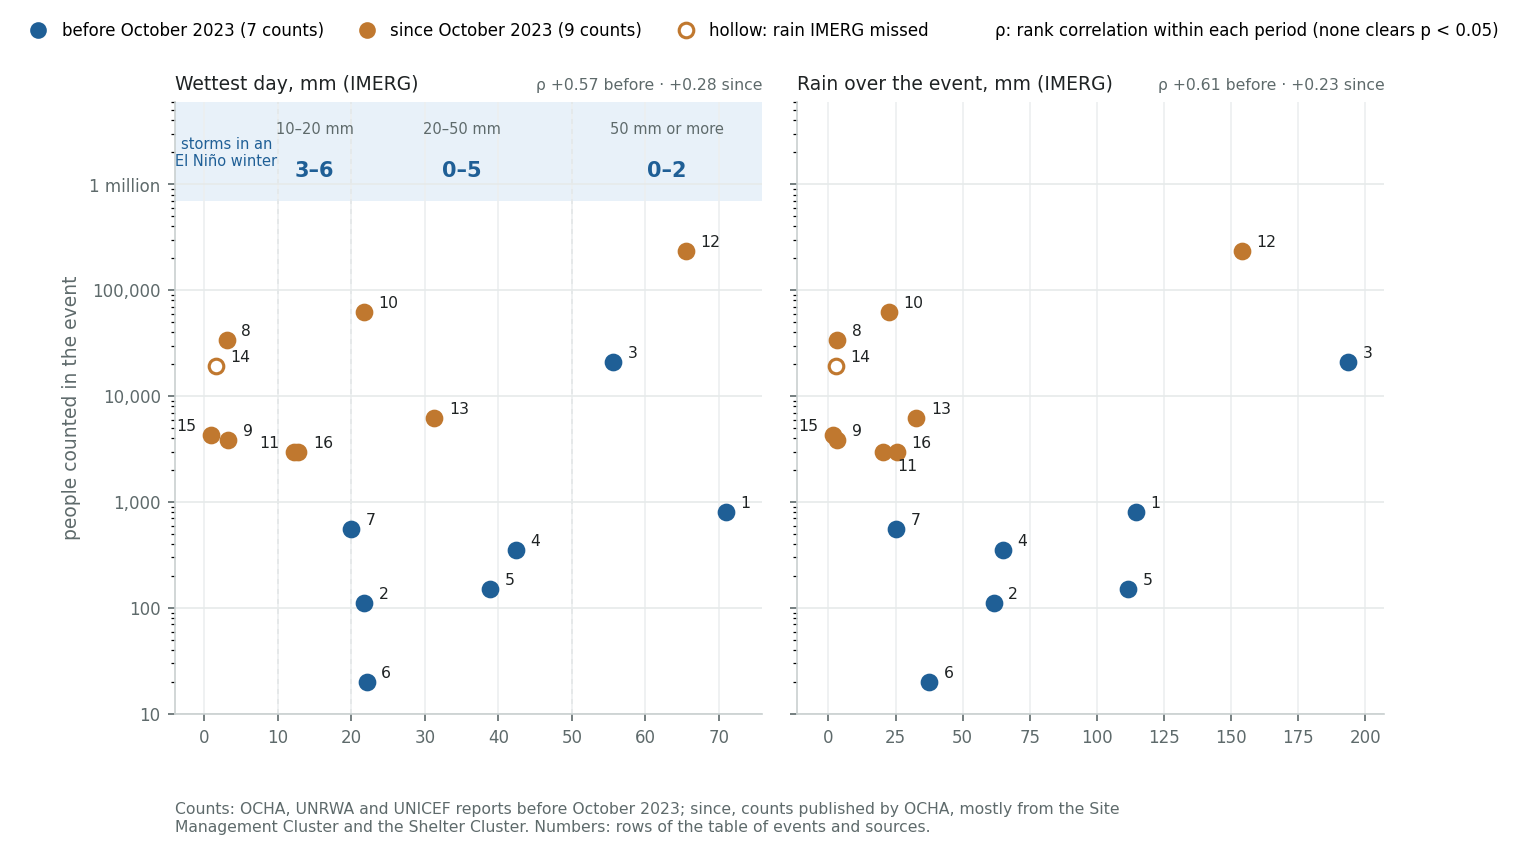
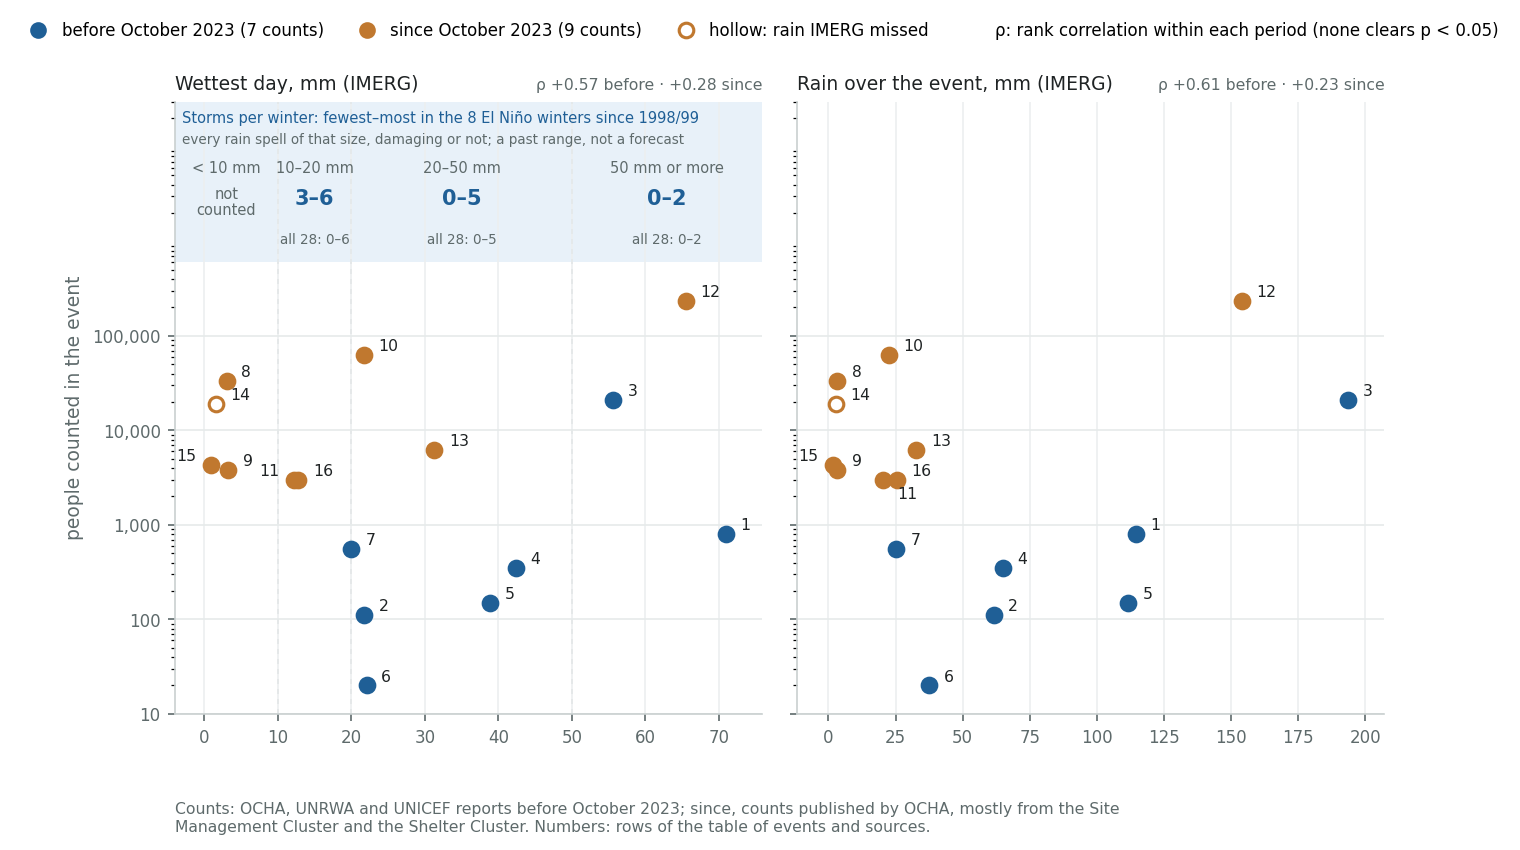
Per-event scatter: the storm-count strip explains itself
The strip says in the figure that it is the fewest and most storms per winter in the eight
El Niño winters of the record, every rain spell damaging or not, a past range and not a forecast;
it adds the range over all winters, which is nearly the same, and marks events under 10 mm as
outside the count.

diff --git a/docs/enso/gaza-west-bank/index.html b/docs/enso/gaza-west-bank/index.html
@@ -493,7 +493,7 @@ h3.area{font-size:17px;margin:28px 0 8px;padding:2px 0 2px 10px;border-left:4px 
 <tr><td>50 mm or more</td><td class="num">9</td><td class="num">3</td><td class="num" style="white-space:nowrap">800–21,000 <span class="small">(2)</span></td><td class="num">1</td><td class="num">1</td><td class="num" style="white-space:nowrap">235,000 <span class="small">(1)</span></td></tr>
 </tbody></table></div>
 <p class="small">Storms over Gaza in IMERG, as defined above.</p><details class="note"><summary>Notes and method</summary><p class="small">“With a reported impact”: any entry in the event catalogue, with or without a count, overlaps the storm (from the day before the entry starts to the day it ends). “People counted”: the range across events with a dated count, sized by the wettest day in the event's own dates, with the number of counts in brackets. Counts of assistance delivered, with no rain date, are left out. The event of 12–16 January 2026 (19,200 people) is not in the size tiers above: IMERG has 1.5 mm on its wettest day and ERA5 12 mm, so IMERG missed most of its rain. The one count of 10–20 mm before October 2023 is from January 2020; its date is approximate and its wettest day, at 20 mm, sits on the boundary.</p></details>
-<figure><img src="gaza/event_hazards.png" alt="People counted per event against the rain over the event's dates"><figcaption>Counts: OCHA, UNRWA and UNICEF reports before October 2023; since, counts published by OCHA, mostly from the Site Management Cluster and the Shelter Cluster. <details class="note"><summary>More about this figure</summary><span>Each dot is one event with a dated count, against the rain over Gaza from the day before the event to its last day. Numbers: rows of the table below, which links each count to its source. Top of the left panel: how many storms of each size the eight El Niño winters since 1998/99 brought, fewest to most; events under 10 mm (high tides, wind) are not storms in that count.</span></details></figcaption></figure>
+<figure><img src="gaza/event_hazards.png" alt="People counted per event against the rain over the event's dates"><figcaption>Counts: OCHA, UNRWA and UNICEF reports before October 2023; since, counts published by OCHA, mostly from the Site Management Cluster and the Shelter Cluster. <details class="note"><summary>More about this figure</summary><span>Each dot is one event with a dated count, against the rain over Gaza from the day before the event to its last day. Numbers: rows of the table below, which links each count to its source. Top of the left panel: how many storms of each size the eight El Niño winters since 1998/99 brought, fewest to most. That is every rain spell of that size, whether or not anyone was counted: what past El Niño winters brought, not a forecast of this one, and close to the range of all 28 winters. Events under 10 mm (high tides, wind) are not storms in that count.</span></details></figcaption></figure>
 <div style="overflow-x:auto"><table><thead><tr><th>#</th><th>Dates</th><th>Hazard</th><th class="num">Wettest day</th><th class="num">People counted</th><th>What the count is</th><th>Source</th></tr></thead><tbody>
 <tr><td>1</td><td style="white-space:nowrap">18–19 Jan 2010</td><td>rain</td><td class="num" style="white-space:nowrap">71 mm</td><td class="num" style="white-space:nowrap">800</td><td class="small">residents evacuated in the Wadi Gaza flood</td><td class="small" style="white-space:nowrap"><a href="https://www.ochaopt.org/sites/default/files/ocha_opt_the_humanitarian_monitor_2010_01_31_english.pdf">OCHA Humanitarian Monitor, Jan 2010</a></td></tr>
 <tr><td>2</td><td style="white-space:nowrap">7–10 Jan 2013</td><td>rain, wind</td><td class="num" style="white-space:nowrap">22 mm</td><td class="num" style="white-space:nowrap">about 110</td><td class="small">20 families temporarily displaced</td><td class="small" style="white-space:nowrap"><a href="https://www.un.org/unispal/document/auto-insert-194567/">OCHA SitRep, 16 Jan 2013</a></td></tr>

diff --git a/levant_deep_dive.py b/levant_deep_dive.py
@@ -1435,9 +1435,9 @@ def winter_impacts(evp: pd.DataFrame, ev: pd.DataFrame, imerg: pd.Series, st: di
     dry_ev = U.im_max < SIZE_TIERS[0][0]                 # under 10 mm in IMERG: little rain only if ERA5 agrees
     low = {s_: counts(U[dry_ev & (U.era5_max < SIZE_TIERS[0][0]) & (U.since == s_)]) for s_ in (False, True)}
     per = pd.DataFrame({lo: st["ci"][lo] - (st["ci"][int(hi_)] if np.isfinite(hi_) else 0) for lo, hi_ in SIZE_TIERS})   # storms per winter, by size
-    en_w = per[pd.Series(phase_of(djf.reindex(per.index)), index=per.index) == "El Niño"]
+    en_w = per[S.phase.reindex(per.index) == "El Niño"]
     expect = {lo: dict(lo=int(en_w[lo].min()), hi=int(en_w[lo].max()), med=float(en_w[lo].median()), n=len(en_w),
-                       all_lo=int(per[lo].min()), all_hi=int(per[lo].max())) for lo, _ in SIZE_TIERS}
+                       all_lo=int(per[lo].min()), all_hi=int(per[lo].max()), n_all=len(per), first=int(per.index.min())) for lo, _ in SIZE_TIERS}
     missed = [dict(start=r.start, end=r.end, people=float(r.people), derived=bool(r.derived), im=float(r.im_max), era5=float(r.era5_max))
               for r in U[dry_ev & (U.era5_max >= SIZE_TIERS[0][0])].itertuples()]
 
@@ -1566,18 +1566,25 @@ def fig_event_hazards(wi: dict, out: Path) -> None:
     fig, axs = plt.subplots(1, len(EVENT_HAZARDS), figsize=(10.4, 5.3), dpi=150, sharey=True, gridspec_kw=dict(wspace=0.06))
     for ax, (k, title) in zip(np.atleast_1d(axs), EVENT_HAZARDS):
         v = U[k]; pad = 0.07 * (v.max() - v.min())
-        ax.set_xlim(v.min() - pad, v.max() + pad); ax.set_yscale("log"); ax.set_ylim(10, 6e6)                 # room above the dots for the storm counts
+        ax.set_xlim(v.min() - pad, v.max() + pad); ax.set_yscale("log"); ax.set_ylim(10, 3e7)                 # room above the dots for the storm counts
         if k == "im_max":
             x0, x1 = ax.get_xlim(); ex = wi["expect"]
             for t in TIERS:
                 ax.axvline(t, color="#b8bfbf", lw=0.8, ls=(0, (3, 3)), zorder=0)
-            ax.axhspan(7e5, 6e6, color="#BFD9EE", alpha=0.35, lw=0, zorder=0)
-            ax.text((x0 + TIERS[0]) / 2, 2.0e6, f"storms in an\nEl Niño winter", ha="center", va="center", fontsize=7, color=SRC_COL["GPCC"], linespacing=1.15)
+            ax.axhspan(6e5, 3e7, color="#BFD9EE", alpha=0.35, lw=0, zorder=0)
+            e0 = ex[SIZE_TIERS[0][0]]; xl = x0 + 0.012 * (x1 - x0); rg = lambda a_, b_: f"{a_}–{b_}" if a_ != b_ else f"{a_}"
+            ax.text(xl, 2.0e7, f"Storms per winter: fewest–most in the {e0['n']} El Niño winters since {_yr(e0['first'])}", ha="left", va="center",
+                    fontsize=7, color=SRC_COL["GPCC"])
+            ax.text(xl, 1.2e7, "every rain spell of that size, damaging or not; a past range, not a forecast", ha="left", va="center",
+                    fontsize=6.5, color=C_MUTED)
+            xm = (x0 + TIERS[0]) / 2
+            ax.text(xm, 6.0e6, "< 10 mm", ha="center", va="center", fontsize=7, color=C_MUTED)
+            ax.text(xm, 2.6e6, "not\ncounted", ha="center", va="center", fontsize=7, color=C_MUTED, linespacing=1.1)
             for (lo, hi_) in SIZE_TIERS:
                 xm = (lo + (hi_ if np.isfinite(hi_) else x1)) / 2
-                ax.text(xm, 3.3e6, f"{lo}–{hi_:.0f} mm" if np.isfinite(hi_) else f"{lo} mm or more", ha="center", va="center", fontsize=7, color=C_MUTED)
-                ax.text(xm, 1.35e6, f"{ex[lo]['lo']}–{ex[lo]['hi']}" if ex[lo]["lo"] != ex[lo]["hi"] else f"{ex[lo]['lo']}", ha="center", va="center",
-                        fontsize=10, fontweight="bold", color=SRC_COL["GPCC"])
+                ax.text(xm, 6.0e6, f"{lo}–{hi_:.0f} mm" if np.isfinite(hi_) else f"{lo} mm or more", ha="center", va="center", fontsize=7, color=C_MUTED)
+                ax.text(xm, 2.8e6, rg(ex[lo]["lo"], ex[lo]["hi"]), ha="center", va="center", fontsize=10, fontweight="bold", color=SRC_COL["GPCC"])
+                ax.text(xm, 1.05e6, f"all {ex[lo]['n_all']}: {rg(ex[lo]['all_lo'], ex[lo]['all_hi'])}", ha="center", va="center", fontsize=6.5, color=C_MUTED)
         dots = [ax.transData.transform((getattr(r, k), r.people)) for r in U.itertuples()]
         placed = []
         for r, (px, py) in zip(U.itertuples(), dots):
@@ -1597,7 +1604,7 @@ def fig_event_hazards(wi: dict, out: Path) -> None:
         ax.set_title(f"ρ {c[False][0]:+.2f} before · {c[True][0]:+.2f} since", fontsize=7.5, color=C_MUTED, loc="right")
         ax.grid(color="#eceff0", lw=0.8); ax.set_axisbelow(True); edd._style_ax(ax); ax.tick_params(labelsize=8)
     ax0 = np.atleast_1d(axs)[0]
-    ax0.set_yticks([10, 100, 1000, 10000, 100000, 1000000], ["10", "100", "1,000", "10,000", "100,000", "1 million"])
+    ax0.set_yticks([10, 100, 1000, 10000, 100000], ["10", "100", "1,000", "10,000", "100,000"])
     ax0.set_ylabel("people counted in the event", fontsize=9, color=C_MUTED)
     n = {s_: int((U.since == s_).sum()) for s_ in (False, True)}
     weak = all(pv > 0.05 for c in wi["corr_ev"].values() for _, pv in c.values())
@@ -1975,7 +1982,8 @@ def render_winter_impacts(spec: dict, a: dict) -> str:
              f'<figcaption>{html.escape(A.event_sources)} Each dot is one event with a dated count, against the rain over {A.ref} from the '
              f'day before the event to its last day. Numbers: rows of the table below, which links each count to its source. Top of the left panel: how '
              f'many storms of each size the {_nword(wi["expect"][SIZE_TIERS[0][0]]["n"])} El Niño winters since {_yr(int(S.index.min()))} brought, fewest to '
-             f'most; events under 10 mm (high tides, wind) are not storms in that count.</figcaption></figure>')
+             f'most. That is every rain spell of that size, whether or not anyone was counted: what past El Niño winters brought, not a forecast of this '
+             f'one, and close to the range of all {wi["n_all"]} winters. Events under 10 mm (high tides, wind) are not storms in that count.</figcaption></figure>')
     o.append('<div style="overflow-x:auto"><table><thead><tr><th>#</th><th>Dates</th><th>Hazard</th><th class="num">Wettest day</th>'
              '<th class="num">People counted</th><th>What the count is</th><th>Source</th></tr></thead><tbody>')
     for r in U.itertuples():
